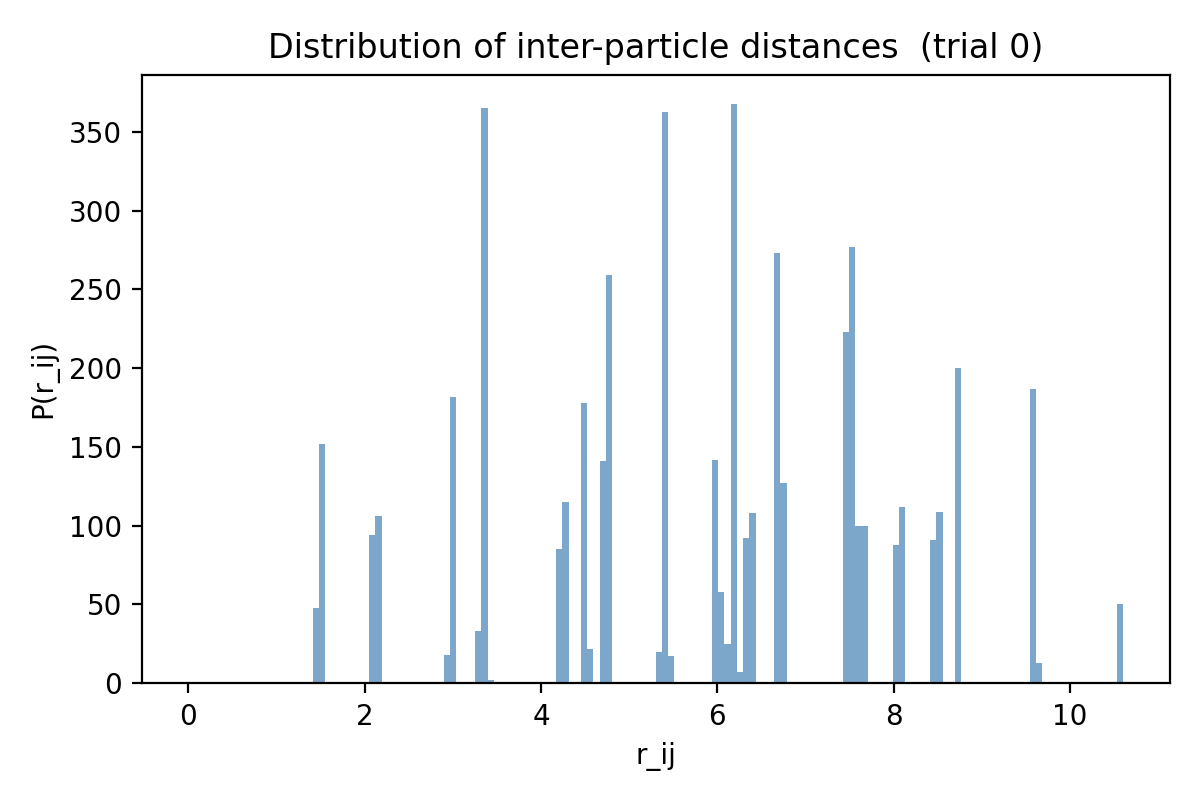
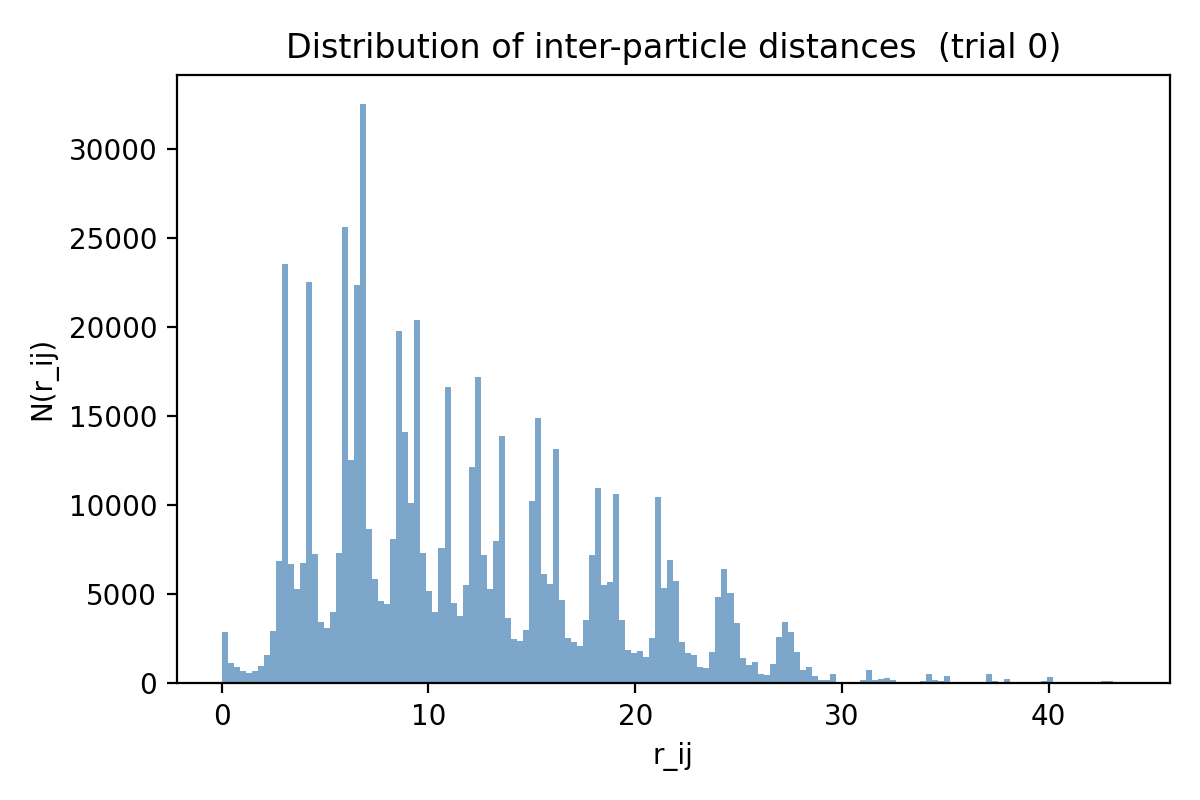
modified:   histogram.py 	modified:   main.cpp 	new file:   ovito.py 	modified:   rij_histogram.png

diff --git a/main.cpp b/main.cpp
@@ -10,7 +10,7 @@ using namespace std;
 namespace fs = filesystem;
 
 
-bool create_directory(const string& path) {
+bool create_directory(string& path) {
     try {
         fs::create_directories(path);
         return fs::is_directory(path);
@@ -26,6 +26,7 @@ struct Particle {
     double ax, ay;
     double x_new,y_new;
     double vx_new,vy_new;
+    vector <int> neighbours;
 };
 
 class Simulation {
@@ -64,6 +65,45 @@ public:
 
     vector<double> get_order_data(){return order;}
     vector<int> get_time_data(){return times;}
+    void update_neigbours(){
+        for(Particle &p:particles){
+            p.neighbours.clear();
+            for(int i=0;i<N;i++){
+                double r=rij(p,particles[i]);
+                if(r<=2*rc && r>1e-4){
+                    p.neighbours.push_back(i);
+                }
+            }
+        }
+    }
+    void initialize_particles_old() {
+        gen.seed(12345 + 10 * trial);
+        double rho = N/(Lx*Ly);
+        if(rho>=1){cout<<"Particles Intialize Failure ";}
+        int i=0;
+        for(int j=0;j<static_cast<int>(Lx) &&i<N;j++){
+            for(int k=0;k<static_cast<int>(Ly)&&i<N;k++){
+            
+                particles[i].x = j ;
+                particles[i].y = k;
+                particles[i].x_new = j ;
+                particles[i].y_new = k;                    
+                
+                double theta=M_PI*uniform_dist(gen);
+    
+                particles[i].vx = v0*cos(theta);
+                particles[i].vy = v0*sin(theta);
+                particles[i].vx_new = v0*cos(theta);
+                particles[i].vy_new = v0*sin(theta);
+                particles[i].ax = 0;
+                particles[i].ay = 0;
+                i++;                
+            } 
+        }    
+        update_neigbours();
+        for(int t=0;t<100;t++){velocity_update();position_update();EndTimeStep();}
+        update_neigbours();
+    }          
 
     void initialize_particles() {
         gen.seed(12345 + 10 * trial);
@@ -72,34 +112,35 @@ public:
         int grid_size = static_cast<int>(ceil(sqrt(N)));
         double spacing_x = Lx / grid_size;
         double spacing_y = Ly / grid_size;
-        int id=0;
-        for(int j=0;j<static_cast<int>(grid_size) &&id<N;j++){
-            for(int k=0;k<static_cast<int>(grid_size)&&id<N;k++){
+        int i=0;
+        for(int j=0;j<static_cast<int>(grid_size) &&i<N;j++){
+            for(int k=0;k<static_cast<int>(grid_size)&&i<N;k++){
 
-                particles[id].x = (j + 0.5) * spacing_x;
-                particles[id].y = (k + 0.5) * spacing_y;
-                particles[id].x_new = particles[id].x;
-                particles[id].y_new = particles[id].y;
+                particles[i].x = (j + 0.5) * spacing_x;
+                particles[i].y = (k + 0.5) * spacing_y;
+                particles[i].x_new = particles[i].x;
+                particles[i].y_new = particles[i].y;
                 
                 double theta=M_PI*uniform_dist(gen);
-                particles[id].vx = v0*cos(theta);
-                particles[id].vy = v0*sin(theta);
-                particles[id].vx_new = v0*cos(theta);
-                particles[id].vy_new = v0*sin(theta);
+                particles[i].vx = v0*cos(theta);
+                particles[i].vy = v0*sin(theta);
+                particles[i].vx_new = v0*cos(theta);
+                particles[i].vy_new = v0*sin(theta);
                 
-                particles[id].ax = 0;
-                particles[id].ay = 0;
+                particles[i].ax = 0;
+                particles[i].ay = 0;
                 
-                id++;                
+                i++;                
             } 
         }
-
-        for(int t=0;t<100;t++){position_update();EndTimeStep();}
+        update_neigbours();
+        for(int t=0;t<100;t++){velocity_update();position_update();EndTimeStep();}
+        update_neigbours();
     }          
     double dot_product(double theta,double dx,double dy,double rij){
         return ( (cos(theta) * (dx))+( sin(theta) * (dy) ) )/(rij);
     }
-    void pbc_posi(Particle & p){
+    void pbc_position(Particle & p){
         // Periodic boundary conditions
         if (p.x < 0) p.x = fmod(p.x,Lx) +Lx;
         if (p.x > Lx) p.x = fmod(p.x,Lx);
@@ -127,9 +168,8 @@ public:
         return 24.0 * (2.0 * sr12 - sr6) / r;
     }
     double inter_particle_repulsive_force(double r) {
-        //const double rmin = 1e-3;
-        if (r > 2*sigma ) return 0.0;
-        else return k*(r-2*sigma);
+        if (r <= 2*sigma ) return k*(2*sigma-r);
+        else return 0;
     }   
     double rij( Particle& p_i,  Particle& p_j) {
         double dx = p_i.x - p_j.x;
@@ -140,37 +180,36 @@ public:
         if (r < 1e-3) r = 1e-3;
         return r;
     }
+    
     void compute_forces() {
         for (Particle &p : particles) {
             p.ax = 0;
-            p.ay = 0;
+            p.ay  = 0;
             }
         
-        for (int i = 0; i < N; i++) {
-            for (int j = i + 1; j < N; j++) {
-                double dx = particles[j].x - particles[i].x;
-                double dy = particles[j].y - particles[i].y;
+        for (Particle &p_i:particles) {
+            for (int j:p_i.neighbours) {
+                double dx = particles[j].x - p_i.x;
+                double dy = particles[j].y - p_i.y;
                 dx=minimum_image(dx,Lx);
                 dy=minimum_image(dy,Ly);
-                double r = sqrt(dx*dx + dy*dy );
-                     
-                if (r < rc && r > 1e-6) {
-                    double f = inter_particle_repulsive_force(r);
-                    double fx = f * dx / r;
-                    double fy = f * dy / r;
-                    
-                    particles[i].ax += fx;
-                    particles[i].ay += fy;
-                    
-                    particles[j].ax -= fx;
-                    particles[j].ay -= fy;
-                    
-                }
+                double r = sqrt(dx*dx + dy*dy );     
+            
+                double f = inter_particle_repulsive_force(r);
+                double fx = f * (-dx / r);
+                double fy = f * (-dy / r);
+                
+                p_i.ax += fx;
+                p_i.ay += fy;
+                
+                particles[j].ax -= fx;
+                particles[j].ay -= fy;
+                
+                
             }
         }
     }   
-    void velocity_alignment() {
-    
+
     void velocity_alignment() {    
         vector<double> avgx(N,0);
         vector<double> avgy(N,0),newtheta(N);
@@ -181,7 +220,7 @@ public:
             avgx[i]+=cos(theta_i);   // just so that we can include the particle itself in average
             avgy[i]+=sin(theta_i);   // just so that we can include the particle itself in average
             
-            for (int j = i+1; j < particles.size(); j++) 
+            for (int j:particles[i].neighbours) 
             {   
                 double theta_j=atan2(particles[j].vy,particles[j].vx);
                 double dx=minimum_image(particles[j].x - particles[i].x,Lx);
@@ -190,12 +229,12 @@ public:
                 double innerproduct_i=  dot_product(theta_i,dx,dy,rij); 
                 double innerproduct_j=  dot_product(theta_j,-dx,-dy,rij); 
                         
-                if(rij <= rc && innerproduct_i >= cos(half_angle) )      
+                if( innerproduct_i >= cos(half_angle) )      
                     {avgy[i]+= sin(theta_j);
                     avgx[i]+=cos(theta_j);
                     count[i]++;}
                 
-                if(rij <= rc && innerproduct_j >= cos(half_angle) ) 
+                if( innerproduct_j >= cos(half_angle) ) 
                     {avgy[j]+= sin(theta_i);
                     avgx[j]+=cos(theta_i);
                     count[j]++;}
@@ -214,15 +253,18 @@ public:
             
         }    
     }
-    void position_update(){
-        compute_forces();
-        for (auto& p : particles) {    
-            p.vx_new += p.ax*dt;
-            p.vy_new += p.ay*dt ;
+    void velocity_update(){
+        for (Particle & p : particles) {    
+            p.vx_new += p.ax;
+            p.vy_new += p.ay ;
             pbc_velo(p);
+        }
+    }
+    void position_update(){
+        for (Particle & p : particles) {    
             p.x_new += p.vx * dt;
             p.y_new += p.vy * dt ;           
-            pbc_posi(p);
+            pbc_position(p);
         }
     }
     void EndTimeStep(){
@@ -235,13 +277,15 @@ public:
     } 
     void integrate() {
         velocity_alignment(); 
+        compute_forces();
+        velocity_update();
         position_update(); 
         EndTimeStep();
     } 
     double velocity_order_parameter() {
         double sum_vx = 0, sum_vy = 0;
         
-        for ( auto& p : particles) {
+        for ( Particle & p : particles) {
             sum_vx += p.vx;
             sum_vy += p.vy;    
         }
@@ -252,29 +296,29 @@ public:
     void save_snapshot(int step,int trial) {
         ofstream file(folder_path+"config_data/trial_"+to_string(trial)+"/config_" +to_string(step) + ".csv");
         file<<"x,y,vx,vy\n";
-        for ( auto& p : particles) {
+        for ( Particle & p : particles) {
             file << p.x << "," << p.y << ","
                  << p.vx << "," << p.vy << "\n";
         }
         file.close();
     }   
 
-    void run_simulation(int tmax,int trialstart,int numberoftrials,vector<bool>time_record) {
+    void run_simulation(int tmax,int trialstart,vector<bool>time_record) {
         ofstream f(folder_path+"parameters.csv");
-        string head="N,Lx,Ly,alpha,v0,dt,eta,maxiter,numberoftrials\n";
+        string head="N,Lx,Ly,alpha,v0,dt,eta,maxiter,trial\n";
         f<< head;
-        f<<N<<","<<Lx<<","<<Ly<<","<<half_angle<<","<<v0<<","<<dt<<","<<noise<<","<<tmax<<","<<numberoftrials; 
+        f<<N<<","<<Lx<<","<<Ly<<","<<half_angle<<","<<v0<<","<<dt<<","<<noise<<","<<tmax<<","<<trial; 
         f.close();
         int time_counter=0;
-        for (int t = 0; t < tmax; t++) {
+        for (int t = 0; t < tmax; t++) { 
             integrate();
+            if(t%1000==0)update_neigbours();
             if (time_record[t]){
                 order.push_back(velocity_order_parameter());    
                 save_snapshot(t,trial);
                 times.push_back(t);
                 } 
             if (t % 100 == 0) cout  << t<<">>" << flush;
-            
         } 
         cout<<tmax<<"\n"; 
         save_order_data();
@@ -301,13 +345,13 @@ void save_order(vector<vector<double>>orderpara,vector<int>times,int trialstart,
 
 int main() {
     int N = 100;        // Number of particles
-    double Lx = 15.0;    // Box size
-    double Ly = 15.0;    // Box size
+    double Lx = 30.0;    // Box size
+    double Ly = 30.0;    // Box size
     double half_angle=M_PI;
     double v0=0.01;
     double dt = 0.01;   // Timestep
     double noise = 0.05; // Noise strength
-    int tmax = 10000;    // Maximum time
+    int tmax = 20000;    // Maximum time
     int numberoftrials=1;
     int trialstart=0;
     time_t trial_time,start_time=time(NULL) , finish_time;
@@ -333,7 +377,7 @@ int main() {
         cout<<"\n"<<"Trial number : "<<trial<< " Out of "<<numberoftrials<< " | Angle : "+to_string(half_angle*180/M_PI)+" | Noise : "+to_string(noise)+" | Density : "+to_string(N/(Lx*Ly))+" | N = "+to_string(N)<<" | "<<endl ;
         
         Simulation sim(N, half_angle,Lx,Ly,trial,v0,dt, noise,folder_path);
-        sim.run_simulation(tmax,trialstart,numberoftrials,time_record);
+        sim.run_simulation(tmax,trialstart,time_record);
         
         cout<<"Time to calculate trial = "  <<time(NULL)-trial_time<<" seconds ";  
         

diff --git a/ovito.py b/ovito.py
@@ -1,0 +1,54 @@
+#!/usr/bin/env python3
+"""
+csv2xyz.py  –  convert Vicsek csv snapshots → OVITO-ready .xyz
+All particles are written as species “A”.
+Usage:
+    python csv2xyz.py
+Output:
+    config_data/trial_*/xyz/config_12345.xyz
+"""
+
+import csv, pathlib, sys
+
+SRC_DIR = pathlib.Path('data/config_data')          # root that contains trial_*/
+XYZ_DIR = 'xyz'                                # sub-folder that will hold .xyz files
+SPECIES = 'A'                                  # same species for every particle
+
+def csv_to_xyz(csv_path, xyz_path):
+    """Read x,y,vx,vy csv and write minimal xyz file."""
+    with csv_path.open(newline='') as fc, xyz_path.open('w') as fx:
+        rows = list(csv.DictReader(fc))          # first line is header
+        fx.write(f'{len(rows)}\n')
+        fx.write('Properties=id:I:1:pos:R:2:velo:R:2:species:S:1\n')
+        for i, r in enumerate(rows):
+            x, y   = float(r['x']), float(r['y'])
+            vx, vy = float(r['vx']), float(r['vy'])
+            fx.write(f'{i} {x} {y} {vx} {vy} {SPECIES}\n')
+
+def main():
+    if not SRC_DIR.is_dir():
+        sys.exit(f'Folder {SRC_DIR} not found – run this script from the project root.')
+
+    trials = [d for d in SRC_DIR.iterdir() if d.is_dir() and d.name.startswith('trial_')]
+    if not trials:
+        sys.exit('No trial_*/ directories inside config_data/')
+
+    for trial in trials:
+        csv_folder = trial
+        xyz_folder = trial / XYZ_DIR
+        xyz_folder.mkdir(exist_ok=True)
+
+        csv_files = sorted(csv_folder.glob('config_*.csv'))
+        if not csv_files:
+            print(f'No csv files in {trial}, skipping')
+            continue
+
+        for csv_file in csv_files:
+            num = csv_file.stem.split('_')[1]          # config_123.csv → 123
+            xyz_file = xyz_folder / f'config_{num}.xyz'
+            csv_to_xyz(csv_file, xyz_file)
+
+        print(f'converted {len(csv_files)} snapshots → {xyz_folder}')
+
+if __name__ == '__main__':
+    main()

diff --git a/histogram.py b/histogram.py
@@ -18,8 +18,11 @@ import argparse
 # ---------- utilities -------------------------------------------------------
 def minimum_image(dx, dy, Lx, Ly):
     """Apply minimum-image convention to separation vector."""
-    dx = dx - Lx * np.round(dx / Lx)
-    dy = dy - Ly * np.round(dy / Ly)
+    if(dx<-Lx/2):dx=dx + Lx
+    if(dx>Lx/2):dx=dx - Lx 
+    if(dx<-Ly/2):dy=dy + Ly
+    if(dx>Ly/2):dy=dy - Ly
+
     return dx, dy
 
 def all_distances_one_frame(df, Lx, Ly):
@@ -84,7 +87,7 @@ if __name__ == "__main__":
     plt.figure(figsize=(6, 4))
     plt.stairs(counts, edges, fill=True, alpha=0.7, color="steelblue", edgecolor="black")
     plt.xlabel("r_ij")
-    plt.ylabel("P(r_ij)")
+    plt.ylabel("N(r_ij)")
     plt.title(f"Distribution of inter-particle distances  (trial {args.trial})")
     plt.tight_layout()
     plt.savefig(args.png, dpi=200)
